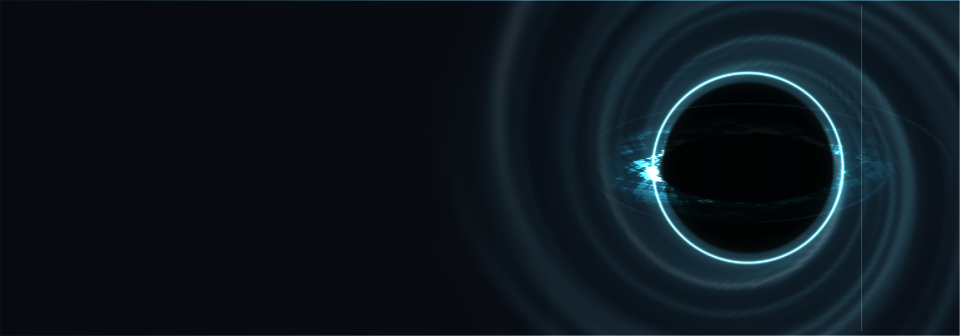
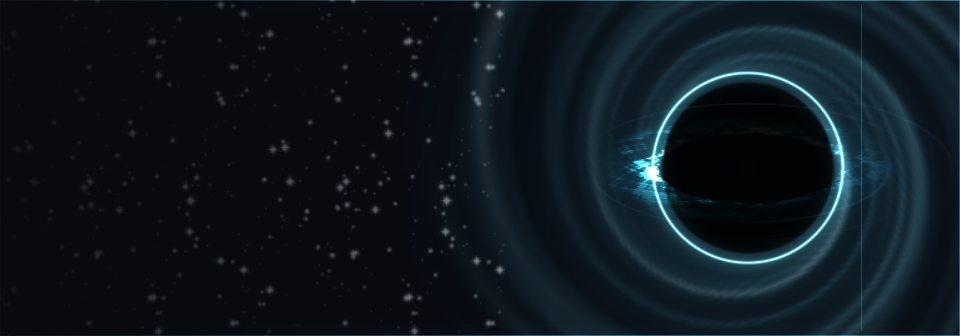
黑洞背景：加一层可平铺的流动星空照片
- tools/GenFx 新增 starfield()，生成 blackhole_stars.png（256×256）：
  格子哈希布星、幂律亮度、蓝白到暖黄色温、最亮的一撮带十字星芒；
  疏密场用整数频率正弦，星点坐标取模，四边可无缝平铺。
- BlackHoleCard 新增最底层：按 256 平铺 2×2、偏移量对 256 取模，
  沿对角线约 4.5 / 2.1 px/s 漂移，透明度 0x90，裁在卡片内。
  观感是"一张照片在缓慢移动"，与星云的螺旋剪切区分开。
- FxTextures 注册新贴图；PreviewTooltip 同步平铺与漂移，预览与游戏一致。
- docs/fx-visual.md 补上这一层的做法与参数。

diff --git a/tools/GenFx.java b/tools/GenFx.java
@@ -241,8 +241,129 @@ public final class GenFx {
         writePng(guiDir.resolve("blackhole_ring.png"), ring());
         writePng(guiDir.resolve("blackhole_core.png"), core());
         writePng(guiDir.resolve("blackhole_streak.png"), streak());
+        writePng(guiDir.resolve("blackhole_stars.png"), starfield());
 
         System.out.println("done");
+    }
+
+    /* ------------------------------------------------------------------ */
+    /* 星空"照片"                                                          */
+    /* ------------------------------------------------------------------ */
+
+    /**
+     * 256×256、**四边可无缝平铺**的星空底图。
+     *
+     * <p>做法：把画布切成 {@code CELLS×CELLS} 个格子，每个格子用哈希决定有没有星、
+     * 星的位置（格内抖动）、亮度（幂律，暗星多亮星少）、色温（蓝白到暖黄）。
+     * 星点用高斯核绘制，坐标取模，所以左右上下边缘天然接得上，
+     * 平铺时不会出现接缝或重复的网格感。
+     *
+     * <p>密度场用整数频率的正弦叠出来——整数频率意味着它在 {@code CELLS} 处正好回到原点，
+     * 于是"星团-空洞"的疏密分布也可以平铺。
+     */
+    static BufferedImage starfield() {
+        final int s = 256;
+        final int cells = 128;
+        final double cell = (double) s / cells;
+
+        double[] r = new double[s * s];
+        double[] g = new double[s * s];
+        double[] b = new double[s * s];
+        double[] haze = new double[cells * cells];
+
+        for (int j = 0; j < cells; j++) {
+            for (int i = 0; i < cells; i++) {
+                // 可平铺的疏密场：频率都是整数圈
+                double n = 0.5
+                        + 0.26 * Math.sin(2 * Math.PI * (3.0 * i / cells + 1.0 * j / cells) + 0.7)
+                        + 0.20 * Math.sin(2 * Math.PI * (7.0 * i / cells - 2.0 * j / cells) + 2.1)
+                        + 0.14 * Math.sin(2 * Math.PI * (11.0 * i / cells + 5.0 * j / cells) + 4.3);
+                double density = clamp01(n * 0.75);
+                haze[j * cells + i] = density;
+
+                if (rnd(i, j, 1) > density * 0.035) {
+                    continue;
+                }
+
+                double sx = (i + rnd(i, j, 2)) * cell;
+                double sy = (j + rnd(i, j, 3)) * cell;
+                double bright = Math.pow(rnd(i, j, 4), 3.0) * 0.92 + 0.08;
+                double radius = 0.42 + 1.45 * bright;
+                double temp = rnd(i, j, 5);
+
+                // 色温：temp=0 偏蓝白，temp=1 偏暖黄
+                double cr = 0.74 + 0.26 * temp;
+                double cg = 0.80 + 0.20 * (1.0 - Math.abs(temp - 0.5) * 2.0);
+                double cb = 1.08 - 0.34 * temp;
+
+                int rad = (int) Math.ceil(radius * 2.6) + 1;
+                for (int dy = -rad; dy <= rad; dy++) {
+                    for (int dx = -rad; dx <= rad; dx++) {
+                        double d2 = dx * dx + dy * dy;
+                        double w = Math.exp(-d2 / (2.0 * radius * radius)) * bright;
+                        if (w < 0.002) continue;
+                        int px = Math.floorMod((int) sx + dx, s);
+                        int py = Math.floorMod((int) sy + dy, s);
+                        int idx = py * s + px;
+                        r[idx] += w * cr;
+                        g[idx] += w * cg;
+                        b[idx] += w * cb;
+                    }
+                }
+
+                // 最亮的那批给一点十字星芒，这是"照片感"的关键
+                if (bright > 0.86) {
+                    double len = 2.0 + bright * 5.0;
+                    for (int d = 1; d <= (int) len; d++) {
+                        double w = bright * (1.0 - d / len) * 0.35;
+                        for (int sign = -1; sign <= 1; sign += 2) {
+                            int px = Math.floorMod((int) sx + sign * d, s);
+                            int py = Math.floorMod((int) sy, s);
+                            int idx = py * s + px;
+                            r[idx] += w * cr;
+                            g[idx] += w * cg;
+                            b[idx] += w * cb;
+                            px = Math.floorMod((int) sx, s);
+                            py = Math.floorMod((int) sy + sign * d, s);
+                            idx = py * s + px;
+                            r[idx] += w * cr;
+                            g[idx] += w * cg;
+                            b[idx] += w * cb;
+                        }
+                    }
+                }
+            }
+        }
+
+        BufferedImage img = new BufferedImage(s, s, BufferedImage.TYPE_INT_ARGB);
+        for (int y = 0; y < s; y++) {
+            for (int x = 0; x < s; x++) {
+                int idx = y * s + x;
+                double rr = r[idx];
+                double gg = g[idx];
+                double bb = b[idx];
+                double lum = 0.2126 * rr + 0.7152 * gg + 0.0722 * bb;
+
+                // 极淡的银河底噪，避免纯黑
+                double hv = haze[(y * cells / s) * cells + (x * cells / s)];
+                double hazeA = hv * 0.10;
+                rr += hazeA * 0.35;
+                gg += hazeA * 0.55;
+                bb += hazeA * 0.85;
+
+                double a = clamp01(1.0 - Math.exp(-(lum * 2.2 + hazeA * 0.8)));
+                if (a <= 0.004) {
+                    img.setRGB(x, y, 0);
+                    continue;
+                }
+                double inv = lum > 1e-6 ? 1.0 / Math.max(lum, 1e-6) : 0.0;
+                int cr = (int) Math.round(clamp01(rr * inv) * 255);
+                int cg = (int) Math.round(clamp01(gg * inv) * 255);
+                int cb = (int) Math.round(clamp01(bb * inv) * 255);
+                img.setRGB(x, y, argb(a, (cr << 16) | (cg << 8) | cb));
+            }
+        }
+        return img;
     }
 
     /**

diff --git a/src/main/java/cn/autoforged/star_sword_mod_1785589476/client/render/BlackHoleCard.java b/src/main/java/cn/autoforged/star_sword_mod_1785589476/client/render/BlackHoleCard.java
@@ -39,6 +39,9 @@ public final class BlackHoleCard {
     private static final ResourceLocation TEX_RING = tex("blackhole_ring");
     private static final ResourceLocation TEX_CORE = tex("blackhole_core");
     private static final ResourceLocation TEX_STREAK = tex("blackhole_streak");
+    private static final ResourceLocation TEX_STARS = tex("blackhole_stars");
+    /** 星空照片的平铺边长，必须等于贴图尺寸。 */
+    private static final int STAR_TILE = 256;
 
     /** 卡片内边距。 */
     private static final int PAD = 7;
@@ -141,35 +144,51 @@ public final class BlackHoleCard {
         float d = diameter * breathe;
 
         FxDraw.additive();
-        // 星云与辉光都比卡片大，必须裁到卡片内，否则会糊到界面其它地方。
+        // 星云 / 星空 / 辉光都比卡片大，必须裁到卡片内，否则会糊到界面其它地方。
         graphics.enableScissor(cardX, cardY, cardX + cardW, cardY + cardH);
-        // 0) 会流动的星云：每 80ms 在 CPU 上重算一次，差速旋转把气团剪成螺旋。
+
+        // 0) 星空照片：256×256 无缝平铺，沿对角线缓慢漂移，"照片在流动"而不是星云在转。
+        float scrollX = (now * 0.0045F) % STAR_TILE;
+        float scrollY = (now * 0.0021F) % STAR_TILE;
+        for (int gx = 0; gx <= 1; gx++) {
+            for (int gy = 0; gy <= 1; gy++) {
+                float px = cardX + gx * STAR_TILE - scrollX;
+                float py = cardY + gy * STAR_TILE - scrollY;
+                if (px > cardX + cardW || py > cardY + cardH) {
+                    continue;
+                }
+                FxDraw.texQuad(graphics, TEX_STARS, px, py,
+                        px + STAR_TILE, py + STAR_TILE, 0xB4FFFFFF);
+            }
+        }
+
+        // 1) 会流动的星云：每 80ms 在 CPU 上重算一次，差速旋转把气团剪成螺旋。
         //    这一层是"流动感"的主要来源——静态贴图再怎么转都只是整块在转。
         ResourceLocation nebula = NebulaField.texture();
         if (nebula != null) {
             layer(graphics, nebula, cx, cy, d * 2.30F, 1.0F, -angle * 0.40F, 0x80FFFFFF);
         }
-        // 1) 辉光
+        // 2) 辉光
         layer(graphics, TEX_HALO, cx, cy, d * 2.30F, 1.0F, angle * 0.15F, 0x66BFEFFF);
         graphics.disableScissor();
-        // 2) 盘的后半（压扁成椭圆，模拟倾角；视界仍然是正圆，只有盘被压扁）
+        // 3) 盘的后半（压扁成椭圆，模拟倾角；视界仍然是正圆，只有盘被压扁）
         layer(graphics, TEX_DISK, cx, cy, d, DISK_SQUASH, angle, 0xF0FFFFFF);
 
-        // 3) 事件视界：球体投影永远是正圆，压扁就露馅了
+        // 4) 事件视界：球体投影永远是正圆，压扁就露馅了
         FxDraw.alpha();
         layer(graphics, TEX_CORE, cx, cy, d, 1.0F, 0.0F, 0xF0000000);
 
         FxDraw.additive();
-        // 4) 光子环
+        // 5) 光子环
         layer(graphics, TEX_RING, cx, cy, d, 1.0F, 0.0F, 0xFFE8FFFF);
-        // 5) 盘的前半：只保留中心线以下的区域，形成"近侧从前面压过去"的前后关系
+        // 6) 盘的前半：只保留中心线以下的区域，形成"近侧从前面压过去"的前后关系
         int scissorTop = (int) (cy - d * 0.02F);
         int scissorBottom = (int) (cy + d * 0.50F);
         graphics.enableScissor((int) (cx - d * 0.55F), scissorTop,
                 (int) (cx + d * 0.55F), scissorBottom);
         layer(graphics, TEX_DISK, cx, cy, d, DISK_SQUASH, angle, 0x9AFFFFFF);
         graphics.disableScissor();
-        // 6) 被拉成弧的星光
+        // 7) 被拉成弧的星光
         layer(graphics, TEX_STREAK, cx, cy, d * 1.35F, DISK_SQUASH, -angle * 0.55F, 0x40BFEFFF);
 
         FxDraw.reset();

diff --git a/tools/PreviewTooltip.java b/tools/PreviewTooltip.java
@@ -33,6 +33,7 @@ public final class PreviewTooltip {
         Layer streak = new Layer("blackhole_streak.png");
         // 星云是运行时算出来的，这里复刻一份固定时刻的帧
         Layer nebula = new Layer(nebulaPixels(1.7), NEB_SIZE, NEB_SIZE);
+        Layer stars = new Layer("blackhole_stars.png");
 
         int cardW = 240;
         int cardH = 84;
@@ -56,7 +57,7 @@ public final class PreviewTooltip {
         float diameter = Math.min(GUTTER, cardH) * 0.94F * PX;
 
         long now = Long.parseLong(System.getProperty("t", "1700"));
-        drawBlackHole(canvas, w, h, cx, cy, diameter, now, disk, halo, ring, core, streak, nebula);
+        drawBlackHole(canvas, w, h, cx, cy, diameter, now, disk, halo, ring, core, streak, nebula, stars);
 
         // 文字区的横向渐隐底（与 BlackHoleCard 的 32 条竖带一致）
         int scrimRight = (cardW - PAD - GUTTER) * PX;
@@ -74,12 +75,21 @@ public final class PreviewTooltip {
     }
 
     private static void drawBlackHole(int[] canvas, int w, int h, float cx, float cy, float diameter, long now,
-                                      Layer disk, Layer halo, Layer ring, Layer core, Layer streak, Layer nebula) {
+                                      Layer disk, Layer halo, Layer ring, Layer core, Layer streak, Layer nebula, Layer stars) {
         float angle = now * 0.00060F;
         float breathe = 1.0F + 0.02F * (float) Math.sin(now * 0.0016F);
         float d = diameter * breathe;
 
-        nebula.blitAdditive(canvas, w, h, cx, cy, d * 2.15F, 1.0F, -angle * 0.40F, 0x78FFFFFF);
+        float scrollX = (now * 0.0045F) % 256;
+        float scrollY = (now * 0.0021F) % 256;
+        for (int gx = 0; gx <= 1; gx++) {
+            for (int gy = 0; gy <= 1; gy++) {
+                float px = gx * 256 - scrollX;
+                float py = gy * 256 - scrollY;
+                stars.blitAdditive(canvas, w, h, px + 128, py + 128, 256, 1.0F, 0.0F, 0x90FFFFFF);
+            }
+        }
+        nebula.blitAdditive(canvas, w, h, cx, cy, d * 2.30F, 1.0F, -angle * 0.40F, 0x80FFFFFF);
         halo.blitAdditive(canvas, w, h, cx, cy, d * 2.30F, 1.0F, angle * 0.15F, 0x66BFEFFF);
         disk.blitAdditive(canvas, w, h, cx, cy, d, SQUASH, angle, 0xF0FFFFFF);
         core.blitAlpha(canvas, w, h, cx, cy, d, 1.0F, 0.0F, 0xF0000000);

diff --git a/src/main/java/cn/autoforged/star_sword_mod_1785589476/client/render/FxTextures.java b/src/main/java/cn/autoforged/star_sword_mod_1785589476/client/render/FxTextures.java
@@ -29,6 +29,7 @@ public final class FxTextures {
             "blackhole_ring",
             "blackhole_core",
             "blackhole_streak",
+            "blackhole_stars",
     };
 
     private FxTextures() {

diff --git a/docs/fx-visual.md b/docs/fx-visual.md
@@ -32,13 +32,25 @@ tooltip 换成一张卡片：左边逐字彩色文字，右边一颗实时黑洞
 
 | 层 | 来源 | 混合 | 作用 |
 |---|---|---|---|
-| 0 | `NebulaField` 动态纹理 | 加色 | **会流动的星云**（差速旋转剪出螺旋） |
-| 1 | `blackhole_halo` | 加色 | 周围辉光 |
-| 2 | `blackhole_disk` | 加色 | 盘的远侧（压扁 0.38 当倾角） |
-| 3 | `blackhole_core` | alpha | 事件视界，正圆，遮住背后的盘 |
-| 4 | `blackhole_ring` | 加色 | 光子环 |
-| 5 | `blackhole_disk` | 加色 + 剪刀 | 盘的近侧，只留中心线以下，形成前后关系 |
-| 6 | `blackhole_streak` | 加色 | 被拉成弧的星光 |
+| 0 | `blackhole_stars` | 加色 | **星空照片**：256×256 无缝平铺，沿对角线缓慢漂移 |
+| 1 | `NebulaField` 动态纹理 | 加色 | **会流动的星云**（差速旋转剪出螺旋） |
+| 2 | `blackhole_halo` | 加色 | 周围辉光 |
+| 3 | `blackhole_disk` | 加色 | 盘的远侧（压扁 0.38 当倾角） |
+| 4 | `blackhole_core` | alpha | 事件视界，正圆，遮住背后的盘 |
+| 5 | `blackhole_ring` | 加色 | 光子环 |
+| 6 | `blackhole_disk` | 加色 + 剪刀 | 盘的近侧，只留中心线以下，形成前后关系 |
+| 7 | `blackhole_streak` | 加色 | 被拉成弧的星光 |
+
+### 星空照片
+
+`blackhole_stars.png`（256×256，`tools/GenFx.starfield()` 生成）是一张**四边可无缝平铺**
+的星图：格子哈希决定有没有星、星的格内位置、亮度（幂律，暗星多亮星少）、色温（蓝白到暖黄），
+星点用高斯核绘制并对坐标取模，所以平铺不会出现接缝；最亮的一小撮带十字星芒。
+疏密场用整数频率的正弦叠出来，因此"星团-空洞"的分布同样可以平铺。
+
+渲染时按 256 像素平铺成 2×2 张、每帧把偏移量对 256 取模，沿对角线以约 4.5 / 2.1 px/s
+漂移——所以看起来是"一张照片在缓慢移动"，而不是星云在旋转。整层裁在卡片内，透明度 0x90。
+
 
 ### 流动感从哪来
 
